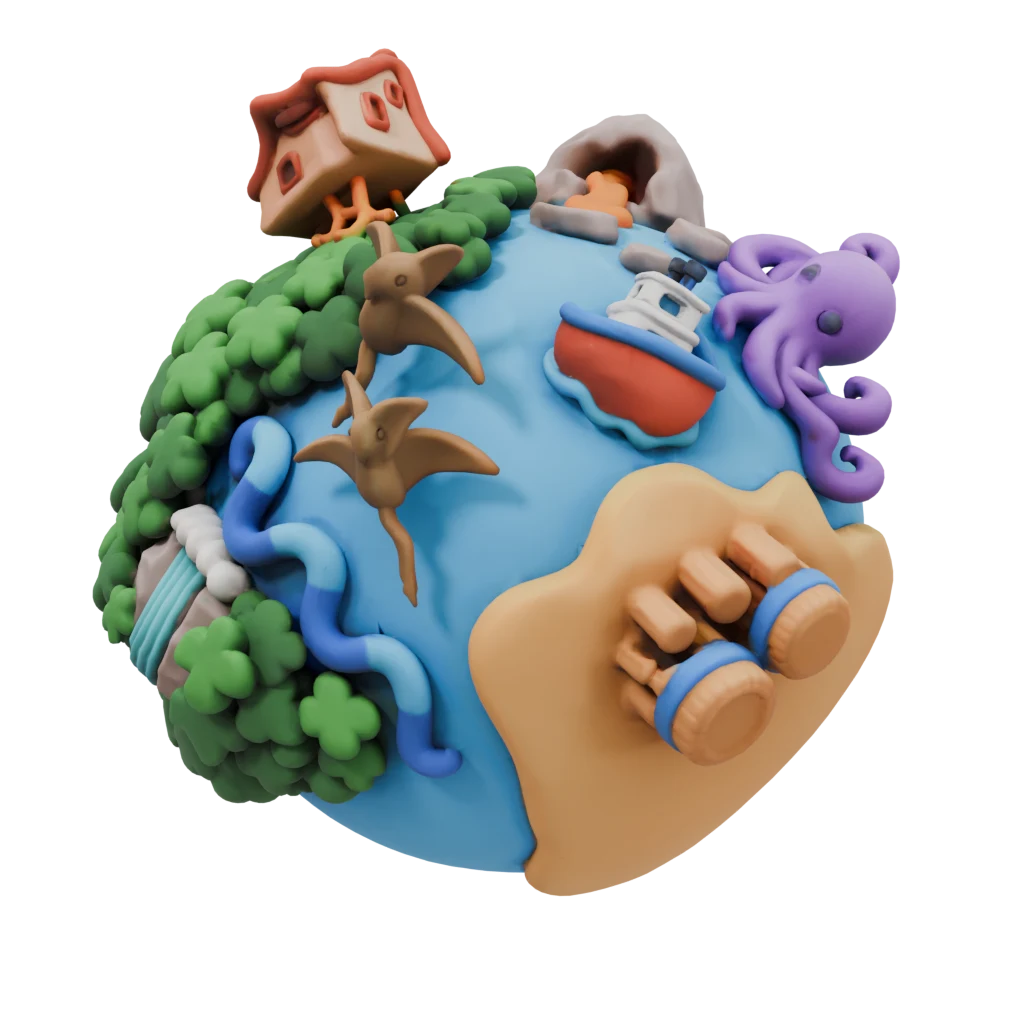
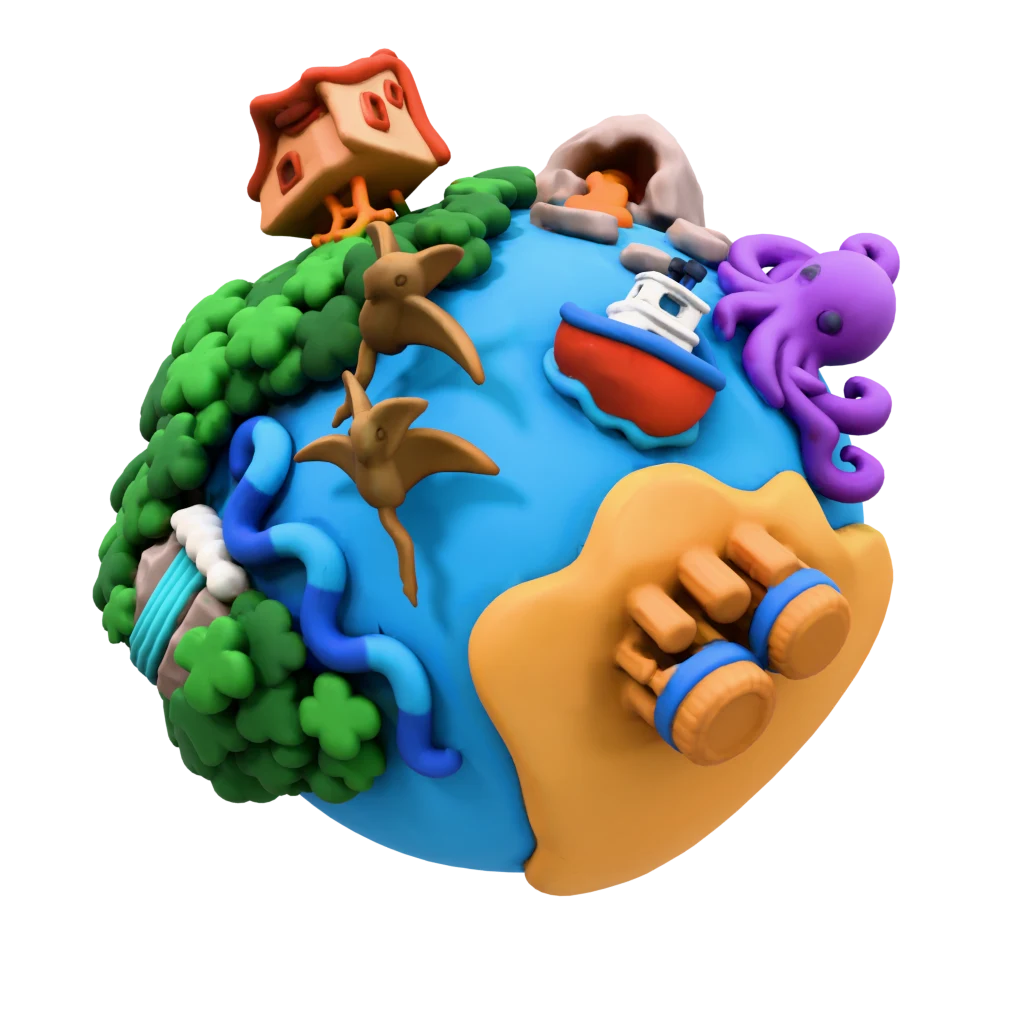
Planetas: cores fiéis (tom Neutral), pôsteres novos e nomes temáticos

diff --git a/src/prototypes/planetas/planetas.ts b/src/prototypes/planetas/planetas.ts
@@ -6,14 +6,14 @@ import type { PlanetaDados } from './PlanetaGirando'
    ficam em public/planetas/<id>/. A linha é impressa pelo otimizar_glb.py.
    ===================================================================== */
 export const PLANETAS = {
-  'planeta-01': { id: 'planeta-01', nome: 'Planeta 01', pasta: 'planetas/planeta-01', modelo: 'planeta.glb', poster: 'poster.webp', raioQuadro: 1.347, inicio: 305, elevacao: 12, fov: 30 },
-  'planeta-02': { id: 'planeta-02', nome: 'Planeta 02', pasta: 'planetas/planeta-02', modelo: 'planeta.glb', poster: 'poster.webp', raioQuadro: 1.446, inicio: 0, elevacao: 12, fov: 30 },
-  'planeta-03': { id: 'planeta-03', nome: 'Planeta 03', pasta: 'planetas/planeta-03', modelo: 'planeta.glb', poster: 'poster.webp', raioQuadro: 1.397, inicio: 0, elevacao: 12, fov: 30 },
-  'planeta-04': { id: 'planeta-04', nome: 'Planeta 04', pasta: 'planetas/planeta-04', modelo: 'planeta.glb', poster: 'poster.webp', raioQuadro: 1.463, inicio: 0, elevacao: 12, fov: 30 },
-  'planeta-05': { id: 'planeta-05', nome: 'Planeta 05', pasta: 'planetas/planeta-05', modelo: 'planeta.glb', poster: 'poster.webp', raioQuadro: 1.322, inicio: 0, elevacao: 12, fov: 30 },
-  'planeta-06': { id: 'planeta-06', nome: 'Planeta 06', pasta: 'planetas/planeta-06', modelo: 'planeta.glb', poster: 'poster.webp', raioQuadro: 1.612, inicio: 0, elevacao: 12, fov: 30 },
-  'planeta-07': { id: 'planeta-07', nome: 'Planeta 07', pasta: 'planetas/planeta-07', modelo: 'planeta.glb', poster: 'poster.webp', raioQuadro: 1.067, inicio: 315, elevacao: 35, fov: 30 },
-  'planeta-08': { id: 'planeta-08', nome: 'Planeta 08', pasta: 'planetas/planeta-08', modelo: 'planeta.glb', poster: 'poster.webp', raioQuadro: 1.574, inicio: 0, elevacao: 12, fov: 30 },
+  'planeta-01': { id: 'planeta-01', nome: 'Mitologia', pasta: 'planetas/planeta-01', modelo: 'planeta.glb', poster: 'poster.webp', raioQuadro: 1.347, inicio: 305, elevacao: 12, fov: 30 },
+  'planeta-02': { id: 'planeta-02', nome: 'Empreendedorismo', pasta: 'planetas/planeta-02', modelo: 'planeta.glb', poster: 'poster.webp', raioQuadro: 1.446, inicio: 0, elevacao: 12, fov: 30 },
+  'planeta-03': { id: 'planeta-03', nome: 'Emoções', pasta: 'planetas/planeta-03', modelo: 'planeta.glb', poster: 'poster.webp', raioQuadro: 1.397, inicio: 0, elevacao: 12, fov: 30 },
+  'planeta-04': { id: 'planeta-04', nome: 'Artes', pasta: 'planetas/planeta-04', modelo: 'planeta.glb', poster: 'poster.webp', raioQuadro: 1.463, inicio: 0, elevacao: 12, fov: 30 },
+  'planeta-05': { id: 'planeta-05', nome: 'Computação', pasta: 'planetas/planeta-05', modelo: 'planeta.glb', poster: 'poster.webp', raioQuadro: 1.322, inicio: 0, elevacao: 12, fov: 30 },
+  'planeta-06': { id: 'planeta-06', nome: 'Fantasia', pasta: 'planetas/planeta-06', modelo: 'planeta.glb', poster: 'poster.webp', raioQuadro: 1.612, inicio: 0, elevacao: 12, fov: 30 },
+  'planeta-07': { id: 'planeta-07', nome: 'Música', pasta: 'planetas/planeta-07', modelo: 'planeta.glb', poster: 'poster.webp', raioQuadro: 1.067, inicio: 315, elevacao: 35, fov: 30 },
+  'planeta-08': { id: 'planeta-08', nome: 'Terra', pasta: 'planetas/planeta-08', modelo: 'planeta.glb', poster: 'poster.webp', raioQuadro: 1.574, inicio: 0, elevacao: 12, fov: 30 },
 } satisfies Record<string, PlanetaDados & { nome: string }>
 
 export type IdPlaneta = keyof typeof PLANETAS

diff --git a/src/platform/journeys.ts b/src/platform/journeys.ts
@@ -536,14 +536,14 @@ export const journeys: Journey[] = [
     dispositivo: 'desktop',
     dominio: 'exploradores.jovensgenios.com',
     flows: [
-      { id: 'giro', label: 'Giro 360°', icon: './planetas/planeta-01/poster.webp' },
-      { id: 'planeta-02', label: 'Planeta 02', icon: './planetas/planeta-02/poster.webp' },
-      { id: 'planeta-03', label: 'Planeta 03', icon: './planetas/planeta-03/poster.webp' },
-      { id: 'planeta-04', label: 'Planeta 04', icon: './planetas/planeta-04/poster.webp' },
-      { id: 'planeta-05', label: 'Planeta 05', icon: './planetas/planeta-05/poster.webp' },
-      { id: 'planeta-06', label: 'Planeta 06', icon: './planetas/planeta-06/poster.webp' },
-      { id: 'planeta-07', label: 'Planeta 07', icon: './planetas/planeta-07/poster.webp' },
-      { id: 'planeta-08', label: 'Planeta 08', icon: './planetas/planeta-08/poster.webp' },
+      { id: 'giro', label: 'Giro 360° · Planeta Mitologia', icon: './planetas/planeta-01/poster.webp' },
+      { id: 'planeta-02', label: 'Planeta Empreendedorismo', icon: './planetas/planeta-02/poster.webp' },
+      { id: 'planeta-03', label: 'Planeta Emoções', icon: './planetas/planeta-03/poster.webp' },
+      { id: 'planeta-04', label: 'Planeta Artes', icon: './planetas/planeta-04/poster.webp' },
+      { id: 'planeta-05', label: 'Planeta Computação', icon: './planetas/planeta-05/poster.webp' },
+      { id: 'planeta-06', label: 'Planeta Fantasia', icon: './planetas/planeta-06/poster.webp' },
+      { id: 'planeta-07', label: 'Planeta Música', icon: './planetas/planeta-07/poster.webp' },
+      { id: 'planeta-08', label: 'Planeta Terra', icon: './planetas/planeta-08/poster.webp' },
       { id: 'claro', label: 'Giro em fundo claro', icon: './3d/sparkles.png' },
       { id: 'tamanhos', label: 'Tamanhos de uso', icon: './3d/planet.png' },
       { id: 'nextjs', label: 'Handoff Next.js', icon: './3d/clipboard.png' },

diff --git a/src/prototypes/planetas/index.tsx b/src/prototypes/planetas/index.tsx
@@ -152,7 +152,7 @@ export default function Planetas({ startScreen }: PrototypeProps) {
 
             {LISTA_PLANETAS.length > 1 && (
               <Campo titulo="Planeta" icone={Globe}>
-                <Segmentos valor={idPlaneta} opcoes={LISTA_PLANETAS.map((p) => ({ id: p.id, label: LISTA_PLANETAS.length > 3 ? p.nome.replace(/^Planeta\s+/, '') : p.nome }))} onChange={(v) => setIdPlaneta(v as IdPlaneta)} />
+                <Segmentos grade valor={idPlaneta} opcoes={LISTA_PLANETAS.map((p) => ({ id: p.id, label: p.nome }))} onChange={(v) => setIdPlaneta(v as IdPlaneta)} />
               </Campo>
             )}
 
@@ -210,16 +210,19 @@ function Campo({ titulo, icone: Icone, children }: { titulo: string; icone: Luci
 }
 
 function Segmentos({
+  grade = false,
   valor,
   opcoes,
   onChange,
 }: {
+  /** botões em grade de duas colunas (listas longas, como a de planetas) */
+  grade?: boolean
   valor: string
   opcoes: { id: string; label: string; sub?: string; icone?: LucideIcon }[]
   onChange: (id: string) => void
 }) {
   return (
-    <div className="pv-seg" role="radiogroup">
+    <div className={grade ? 'pv-seg pv-seg--grade' : 'pv-seg'} role="radiogroup">
       {opcoes.map(({ id, label, sub, icone: Icone }) => (
         <button key={id} role="radio" aria-checked={valor === id} className={valor === id ? 'is-on' : ''} onClick={() => onChange(id)}>
           {Icone && <Icone size={16} aria-hidden />}

diff --git a/src/prototypes/planetas/PlanetaGirando.tsx b/src/prototypes/planetas/PlanetaGirando.tsx
@@ -2,12 +2,11 @@
 
 import { useEffect, useRef, useState, type CSSProperties, type KeyboardEvent, type PointerEvent } from 'react'
 import {
-  ACESFilmicToneMapping,
-  AgXToneMapping,
   DirectionalLight,
   Group,
   HemisphereLight,
   Mesh,
+  NeutralToneMapping,
   PMREMGenerator,
   PerspectiveCamera,
   SRGBColorSpace,
@@ -28,7 +27,8 @@ import s from './planeta-girando.module.css'
    Blender por scripts/planetas/otimizar_glb.py): centro da esfera na
    origem, raio 1, 160 mil triângulos, texturas PBR 2K em WebP e malha
    comprimida por meshopt (~2,4 MB). O three.js desenha com luz de estúdio
-   (principal no alto à esquerda + ambiente) e o objeto só gira: os
+   (principal no alto à esquerda + ambiente), tom Khronos PBR Neutral (cores fiéis à
+   textura) e o objeto só gira: os
    elementos aparecem, passam e somem sem nunca mudar de forma.
 
    Comportamento (igual ao das versões anteriores):
@@ -188,7 +188,9 @@ export function PlanetaGirando({
       return
     }
     renderer.outputColorSpace = SRGBColorSpace
-    renderer.toneMapping = AgXToneMapping ?? ACESFilmicToneMapping
+    // Khronos PBR Neutral: mostra a cor da textura como ela é (cores vibrantes da massinha).
+    // O AgX, usado antes, deixava a saturação em 62–72% da arte.
+    renderer.toneMapping = NeutralToneMapping
     renderer.toneMappingExposure = 1.05
     renderer.setClearColor(0x000000, 0)
 

diff --git a/src/prototypes/planetas/vitrine.css b/src/prototypes/planetas/vitrine.css
@@ -310,6 +310,10 @@
   border-radius: 14px;
   background: var(--linha-2);
 }
+.pv-seg--grade {
+  display: grid;
+  grid-template-columns: 1fr 1fr;
+}
 .pv-seg button {
   flex: 1;
   display: inline-flex;

diff --git a/scripts/planetas/otimizar_glb.py b/scripts/planetas/otimizar_glb.py
@@ -124,7 +124,7 @@ cena.render.resolution_x = cena.render.resolution_y = 1024
 cena.render.image_settings.file_format = 'WEBP'
 cena.render.image_settings.quality = 88
 cena.render.image_settings.color_mode = 'RGBA'
-cena.view_settings.view_transform = 'AgX'
+cena.view_settings.view_transform = 'Khronos PBR Neutral'  # o mesmo tom do site (cores fiéis à textura)
 mundo = bpy.data.worlds.new('W')
 cena.world = mundo
 bg = next(n for n in mundo.node_tree.nodes if n.type == 'BACKGROUND')
